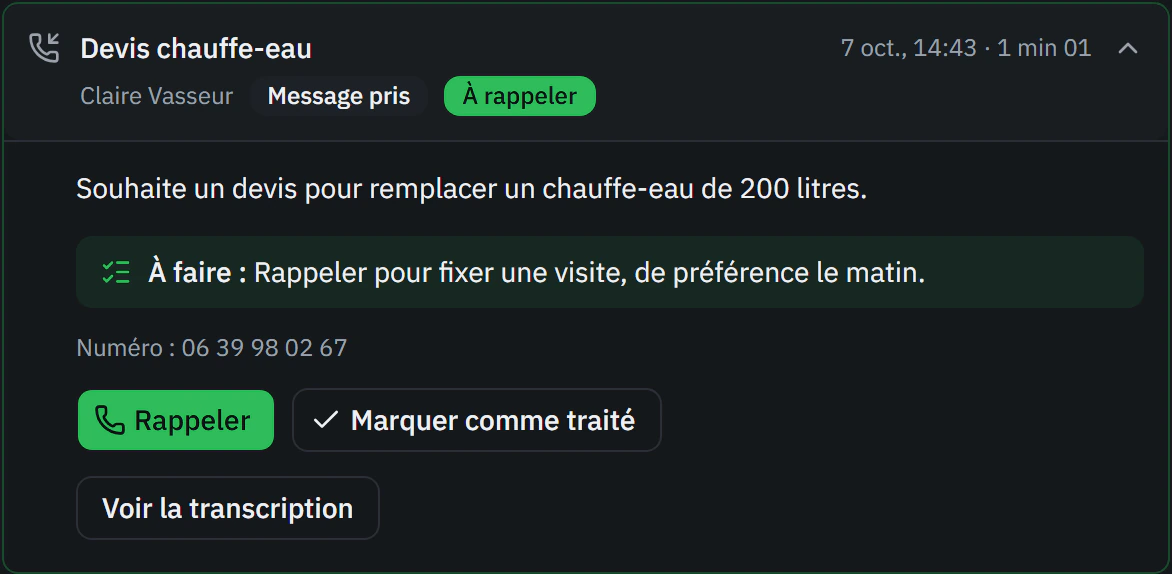
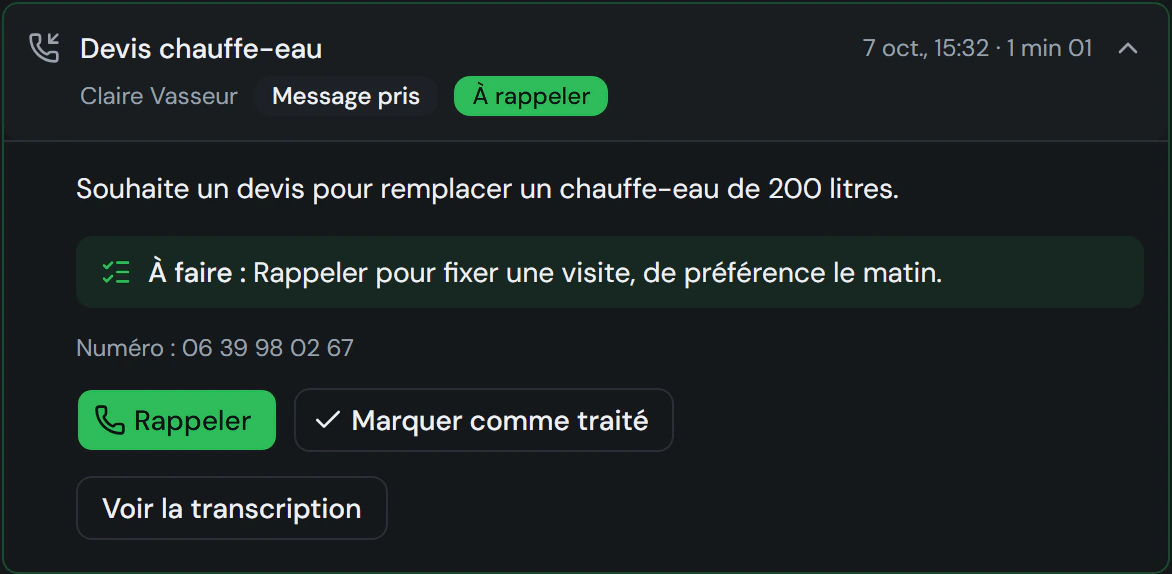
Polices : DM Sans et DM Mono, à la place d'IBM Plex
Proche de Volubile, notre référence française la plus proche (DM Sans),
ronde et lisible pour des artisans ; on écarte Inter et Geist, les polices
des modèles de pages génériques. DM Mono garde les données (prix, horaires,
numéros) dans la même famille, comme le veut DESIGN.md.

- next/font : DM_Sans (400, 500, 600) et DM_Mono (400, 500), latin et
  latin-ext ; variables --font-dm-sans et --font-dm-mono.
- Captures de l'accueil refaites avec la nouvelle police (dimensions
  inchangées).
- DESIGN.md : section Typographie et raison du choix.

Claude-Session: https://claude.ai/code/session_0125LzNRnjENvHdTxbnwep3y

diff --git a/src/app/globals.css b/src/app/globals.css
@@ -44,10 +44,10 @@
   --sidebar-accent-foreground: oklch(0.1898 0.0094 255.6333);
   --sidebar-border: oklch(0.9142 0.0081 253.8565);
   --sidebar-ring: oklch(0.5273 0.1371 150.0693);
-  --font-sans: var(--font-plex-sans), ui-sans-serif, sans-serif, system-ui;
-  --font-serif: var(--font-plex-sans), ui-sans-serif, sans-serif;
-  --font-mono: var(--font-plex-mono), ui-monospace, monospace;
-  --font-heading: var(--font-plex-sans), ui-sans-serif, sans-serif;
+  --font-sans: var(--font-dm-sans), ui-sans-serif, sans-serif, system-ui;
+  --font-serif: var(--font-dm-sans), ui-sans-serif, sans-serif;
+  --font-mono: var(--font-dm-mono), ui-monospace, monospace;
+  --font-heading: var(--font-dm-sans), ui-sans-serif, sans-serif;
   --radius: 0.5rem;
   --shadow-x: 0px;
   --shadow-y: 4px;
@@ -105,10 +105,10 @@
   --sidebar-accent-foreground: oklch(0.9545 0.0046 258.3249);
   --sidebar-border: oklch(0.3032 0.0145 256.7851);
   --sidebar-ring: oklch(0.7007 0.1804 148.9872);
-  --font-sans: var(--font-plex-sans), ui-sans-serif, sans-serif, system-ui;
-  --font-serif: var(--font-plex-sans), ui-sans-serif, sans-serif;
-  --font-mono: var(--font-plex-mono), ui-monospace, monospace;
-  --font-heading: var(--font-plex-sans), ui-sans-serif, sans-serif;
+  --font-sans: var(--font-dm-sans), ui-sans-serif, sans-serif, system-ui;
+  --font-serif: var(--font-dm-sans), ui-sans-serif, sans-serif;
+  --font-mono: var(--font-dm-mono), ui-monospace, monospace;
+  --font-heading: var(--font-dm-sans), ui-sans-serif, sans-serif;
   --radius: 0.5rem;
   --shadow-x: 0px;
   --shadow-y: 10px;

diff --git a/src/app/[locale]/layout.tsx b/src/app/[locale]/layout.tsx
@@ -1,5 +1,5 @@
 import type { Metadata } from "next";
-import { IBM_Plex_Mono, IBM_Plex_Sans } from "next/font/google";
+import { DM_Mono, DM_Sans } from "next/font/google";
 import { ThemeProvider } from "@/components/theme-provider";
 import { NextIntlClientProvider } from "next-intl";
 import { locale as rootLocale } from "next/root-params";
@@ -14,15 +14,17 @@ import { siteOpenGraph } from "@/lib/site-metadata";
 import { Analytics } from "@vercel/analytics/next";
 import { SpeedInsights } from "@vercel/speed-insights/next";
 
-const plexSans = IBM_Plex_Sans({
-  variable: "--font-plex-sans",
-  subsets: ["latin"],
+// DM Sans pour le texte et les titres, DM Mono (même famille) pour les
+// données : prix, horaires, numéros (DESIGN.md, Typographie).
+const dmSans = DM_Sans({
+  variable: "--font-dm-sans",
+  subsets: ["latin", "latin-ext"],
   weight: ["400", "500", "600"],
 });
 
-const plexMono = IBM_Plex_Mono({
-  variable: "--font-plex-mono",
-  subsets: ["latin"],
+const dmMono = DM_Mono({
+  variable: "--font-dm-mono",
+  subsets: ["latin", "latin-ext"],
   weight: ["400", "500"],
 });
 
@@ -58,8 +60,8 @@ export default async function RootLayout({
       className={cn(
         "h-full",
         "antialiased",
-        plexSans.variable,
-        plexMono.variable,
+        dmSans.variable,
+        dmMono.variable,
         "font-sans",
       )}
     >

diff --git a/src/lib/catalog.ts b/src/lib/catalog.ts
@@ -145,7 +145,7 @@ export function formatPrice(monthlyPriceCents: number | null): string {
   return monthlyPriceCents === null ? "—" : `${formatCents(monthlyPriceCents)}/mois`;
 }
 
-// Le montant sans le symbole « € » : pour afficher le chiffre en Plex Mono et
+// Le montant sans le symbole « € » : pour afficher le chiffre en DM Mono et
 // l'unité en texte courant, sans l'espace insécable élargi par la chasse fixe.
 export function formatEuroAmount(cents: number): string {
   return formatCents(cents).replace(/\s€$/, "");

diff --git a/src/components/figure.tsx b/src/components/figure.tsx
@@ -10,7 +10,7 @@ export function splitFigure(text: string): [figure: string, unit: string] | null
 }
 
 // Une donnée déjà formatée (« 150 min », « 25 € TTC ») : le nombre en
-// Plex Mono, l'unité en texte courant. En chasse fixe, les espaces insécables
+// DM Mono, l'unité en texte courant. En chasse fixe, les espaces insécables
 // de l'unité s'élargiraient autant qu'un chiffre.
 export function Figure({
   text,

diff --git a/src/components/monthly-price.tsx b/src/components/monthly-price.tsx
@@ -3,7 +3,7 @@ import { usePriceFormatter } from "@/hooks/use-price-formatter";
 import { formatEuroAmount } from "@/lib/catalog";
 import { cn } from "@/lib/utils";
 
-// Prix mensuel d'une solution : le montant en Plex Mono, l'unité en texte
+// Prix mensuel d'une solution : le montant en DM Mono, l'unité en texte
 // courant, le hors taxes rappelé dessous (DESIGN.md, Typographie).
 export function MonthlyPrice({
   cents,

diff --git a/src/components/stat-strip.tsx b/src/components/stat-strip.tsx
@@ -5,7 +5,7 @@ import { cn } from "@/lib/utils";
 export type Stat = {
   icon: LucideIcon;
   label: string;
-  /** La donnée elle-même, en Plex Mono (DESIGN.md, Typographie). */
+  /** La donnée elle-même, en DM Mono (DESIGN.md, Typographie). */
   value: string;
   /** false pour une valeur écrite en toutes lettres (une date), en texte courant. */
   mono?: boolean;

diff --git a/DESIGN.md b/DESIGN.md
@@ -48,9 +48,13 @@ Nulle part ailleurs.
 ## Typographie
 
 Deux polices de la même famille, chargées par `next/font` :
-- **IBM Plex Sans** (400, 500, 600) pour les titres et le texte ;
-- **IBM Plex Mono** (400, 500), classe `font-mono`, seulement pour les données :
+- **DM Sans** (400, 500, 600) pour les titres et le texte ;
+- **DM Mono** (400, 500), classe `font-mono`, seulement pour les données :
   prix, durées, horaires, numéros de téléphone, codes, numéros d'étape.
+
+DM Sans est celle de Volubile, notre référence la plus proche : ronde, lisible
+et chaleureuse pour des artisans. On écarte les polices des modèles de pages
+génériques (Inter, Geist), qui font « site généré ».
 
 Les chiffres de données sont tabulaires (`tabular-nums`). Pas de petites
 étiquettes en capitales espacées.
@@ -63,7 +67,7 @@ Les chiffres de données sont tabulaires (`tabular-nums`). Pas de petites
 | Titre de section (`h2`) | 30 px, 36 px dès `sm` | 600 |
 | Sous-titre (`h3`) | 18 à 20 px | 600 |
 | Texte courant | 16 px, 18 px pour les chapeaux | 400 |
-| Donnée (Plex Mono) | taille du texte voisin | 400 ou 500 |
+| Donnée (DM Mono) | taille du texte voisin | 400 ou 500 |
 | Légende, aide | 14 px | 400 |
 | Mention légale, note | 13 px | 400 |
 
@@ -166,7 +170,7 @@ reste affichée jusqu'à ce qu'on la ferme.
 - Une capture n'est jamais agrandie au-delà de sa taille réelle ; elle est
   servie en qualité 90 (le texte fin reste net).
 - Les faits commerciaux (prix, engagement, garantie) se présentent en fiche
-  technique : libellé à gauche, valeur en Plex Mono à droite, filets entre les
+  technique : libellé à gauche, valeur en DM Mono à droite, filets entre les
   lignes.
 - Les maquettes dessinées (illustrations des pages solutions) restent pour ce
   qu'une capture ne peut pas montrer (un appel en cours, un message reçu).
